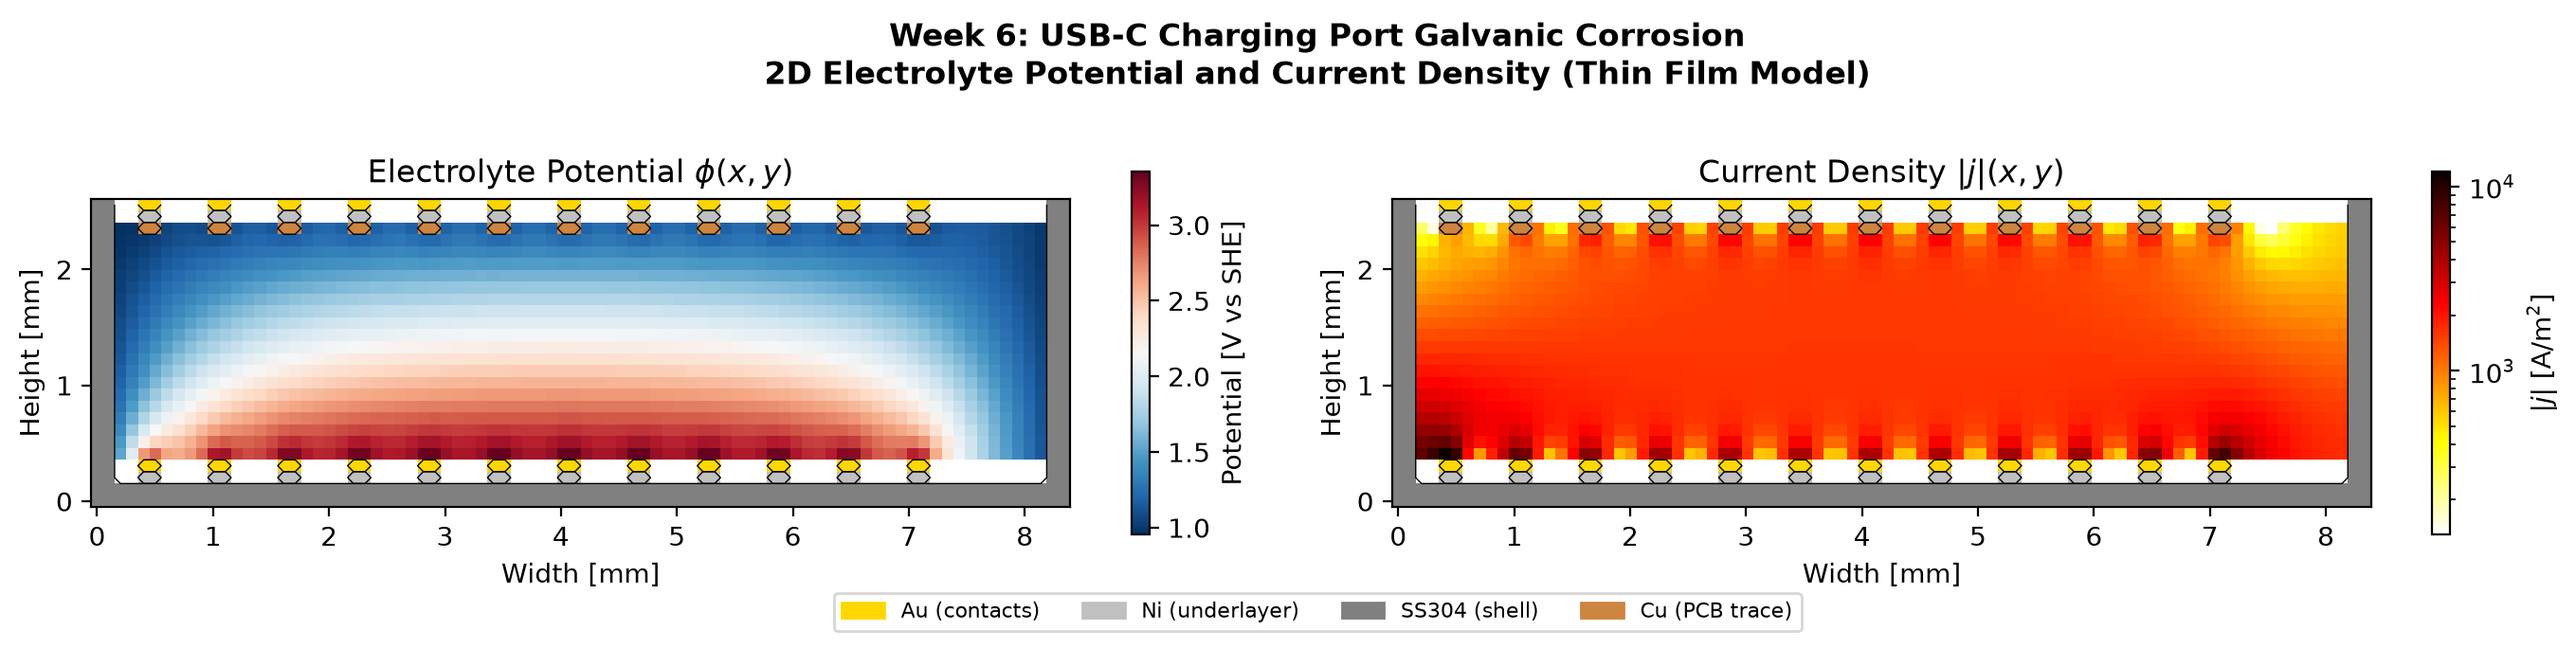
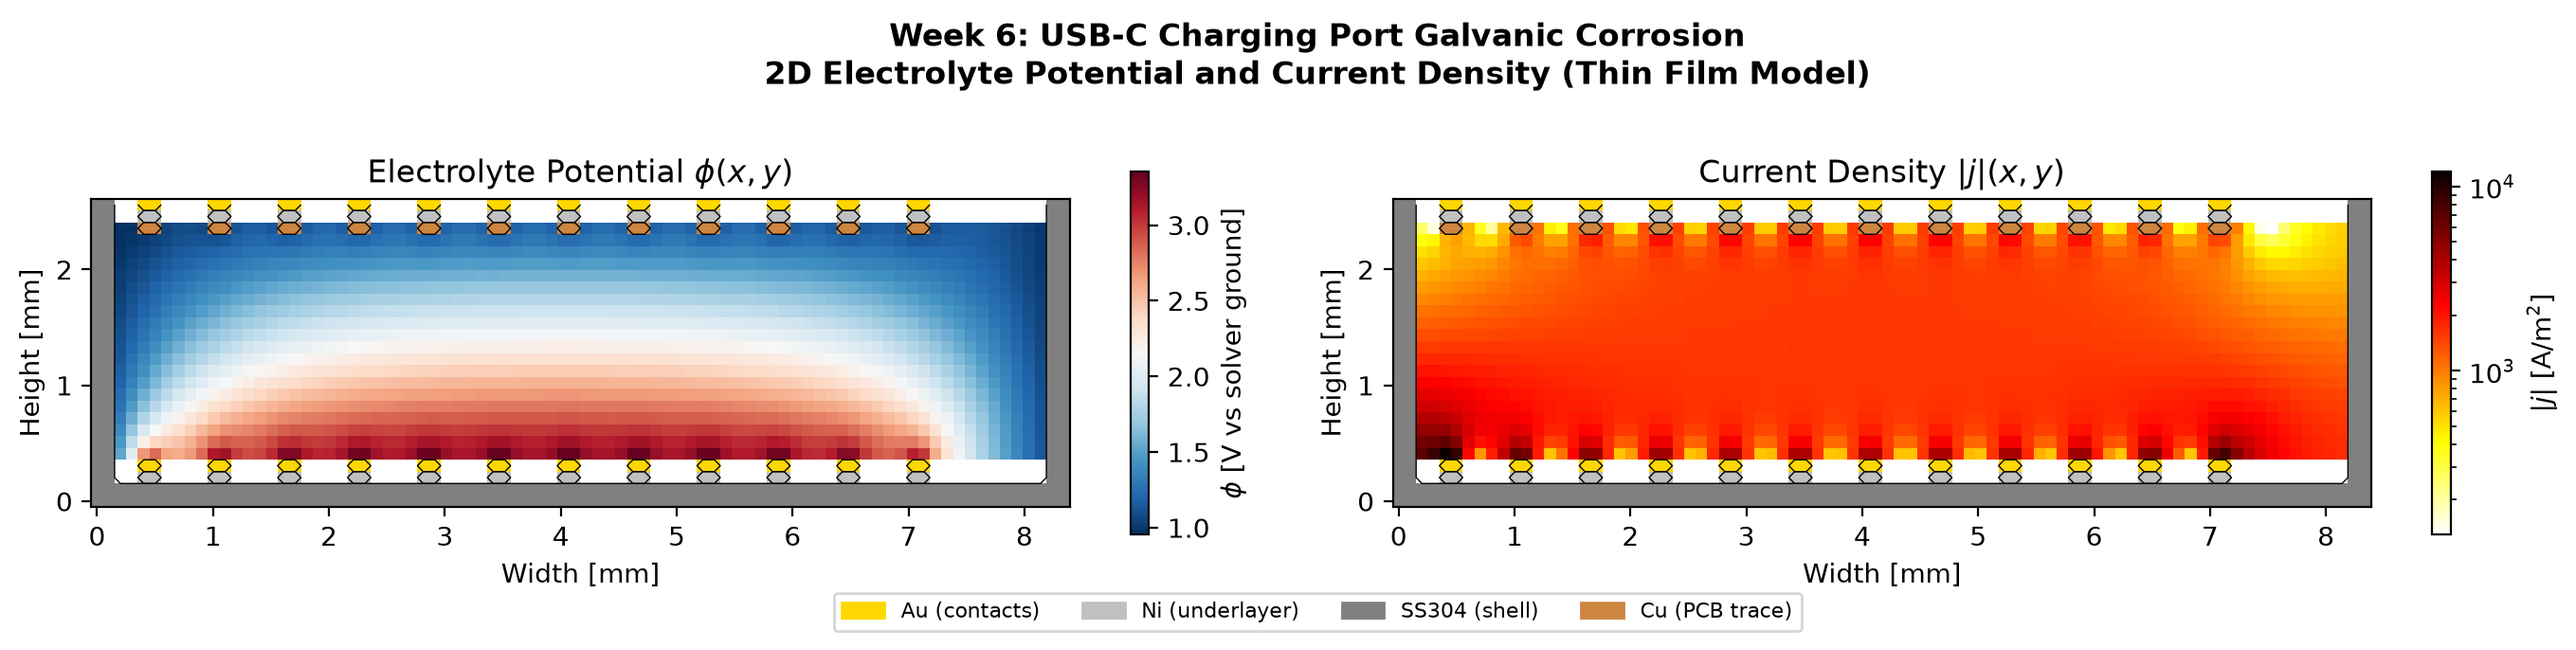
fix(viz): label the electrolyte potential in the solver frame, not vs SHE
The Laplace solve holds each metal at its own E_eq (Au at E_eq + 5 V), so
phi is measured from the solver ground: at zero bias phi = 0 V everywhere,
while the mixed potential of the same metals is +0.531 V vs SHE. The
electrode potential vs SHE at a surface is phi_metal - phi.

Colorbar: "Potential [V vs SHE]" -> "phi [V vs solver ground]".
Values unchanged: 0.96 to 3.35 V under 5 V bias.
Test: test_phi_is_not_referenced_to_she (fails on the old label).

diff --git a/docs/equations.html b/docs/equations.html
@@ -134,7 +134,7 @@ In the thin electrolyte film, assuming electroneutrality and negligible convecti
 $$
 \nabla\!\cdot\!\bigl(\kappa\,\nabla\phi\bigr) \;=\; 0
 $$
-with $\phi$ the electrolyte potential [V] and $\kappa$ the electrolyte conductivity [S/m]. For a film of thickness $\delta_e$ this reduces to a 2D problem on the port surface (8.34 mm × 2.56 mm USB-C receptacle cross section).
+with $\phi$ the electrolyte potential [V, vs solver ground, not vs SHE: each metal is held at its own $E_{\mathrm{eq},k}$, Au at $E_{\mathrm{eq}}$ + 5 V, so $\phi = 0$ at zero bias and the electrode potential vs SHE is $\phi_{\mathrm{metal},k} - \phi$] and $\kappa$ the electrolyte conductivity [S/m]. For a film of thickness $\delta_e$ this reduces to a 2D problem on the port surface (8.34 mm × 2.56 mm USB-C receptacle cross section).
 <p class="src">SOURCE: Laplace equation / current continuity for an ohmic electrolyte (standard electrochemistry, constant $\kappa$). Electrolyte: 0.5% NaCl sweat proxy, $\kappa \approx 1.5$ S/m [ASSUMED proxy].</p>
 <p>Code: <span class="code-ref">src/laplace_solver.py → solve_laplace_2d, extract_boundary_currents</span>.</p>
 </div>
@@ -230,7 +230,7 @@ $$
 </div>
 
 <footer>
-  Integrity Code Series — Week 6 · Felipe Rocha · 43 / 43 tests passing<br>
+  Integrity Code Series — Week 6 · Felipe Rocha · 44 / 44 tests passing<br>
   Browse the rendered panels in <code>assets/</code> for visual results.
 </footer>
 

diff --git a/viz/plot_potential_field.py b/viz/plot_potential_field.py
@@ -23,6 +23,11 @@ from src.config import (NX, NY, DX, DY, PORT_WIDTH, PORT_HEIGHT,
                          METALS, build_metal_zone_map, SIM_PARAMS)
 from src.laplace_solver import solve_laplace_2d
 
+# phi is the electrolyte potential in the solver frame, where each metal is held
+# at E_eq (Au at E_eq + bias). It is not an electrode potential, so not vs SHE;
+# the electrode potential at a surface is phi_metal - phi.
+PHI_LABEL = r"$\phi$ [V vs solver ground]"
+
 
 def plot_potential_field(save_path="assets/hero_potential_current.png", dpi=200):
     """Generate the hero 2D potential and current density visualization."""
@@ -60,7 +65,7 @@ def plot_potential_field(save_path="assets/hero_potential_current.png", dpi=200)
     ax1 = axes[0]
     phi_plot = np.ma.masked_where(zone_map != "electrolyte", phi)
     im1 = ax1.pcolormesh(X, Y, phi_plot, cmap="RdBu_r", shading="auto")
-    cb1 = fig.colorbar(im1, ax=ax1, label="Potential [V vs SHE]", shrink=0.85)
+    cb1 = fig.colorbar(im1, ax=ax1, label=PHI_LABEL, shrink=0.85)
 
     # Fill metal zones with the legend colors so the legend matches the plot
     fill_colors = {"Au": "gold", "Ni": "silver", "SS304": "gray", "Cu": "peru"}

diff --git a/tests/test_all.py b/tests/test_all.py
@@ -164,6 +164,19 @@ class TestLaplaceChargingBias:
         assert wet.min() >= 0.0
         assert wet.max() <= self.BIAS
 
+    def test_phi_is_not_referenced_to_she(self):
+        """With no bias every metal sits at its own E_eq, so phi is 0 V everywhere,
+        while the mixed potential of the same metals is +0.53 V vs SHE. phi is
+        therefore in the solver frame and the figure must not label it vs SHE.
+        """
+        from viz.plot_potential_field import PHI_LABEL
+
+        zone_map = build_metal_zone_map()
+        phi, _, converged, _ = solve_laplace_2d(zone_map=zone_map, charging_bias=0.0)
+        assert converged
+        assert np.abs(phi[zone_map == "electrolyte"]).max() < 1e-9
+        assert "SHE" not in PHI_LABEL
+
     def test_current_density_bounded_by_ohmic_limit(self):
         """|j| cannot exceed kappa * bias over one grid spacing."""
         zone_map = build_metal_zone_map()

diff --git a/README.md b/README.md
@@ -5,7 +5,7 @@
 [![CI](https://github.com/felipearocha/integrity-code-series-week6-smartphone-galvanic/actions/workflows/ci.yml/badge.svg)](https://github.com/felipearocha/integrity-code-series-week6-smartphone-galvanic/actions/workflows/ci.yml)
 [![License: MIT](https://img.shields.io/badge/License-MIT-green.svg)](LICENSE)
 [![Python 3.11+](https://img.shields.io/badge/python-3.11%2B-blue.svg)](https://www.python.org/downloads/)
-[![Tests: 43 passing](https://img.shields.io/badge/tests-43%20passing-brightgreen.svg)](tests)
+[![Tests: 44 passing](https://img.shields.io/badge/tests-44%20passing-brightgreen.svg)](tests)
 [![DOI](https://zenodo.org/badge/DOI/10.5281/zenodo.20172479.svg)](https://doi.org/10.5281/zenodo.20172479)
 
 ## Executive Summary
@@ -42,7 +42,7 @@ outputs of an uncalibrated model.
 
 | Output | Value |
 |---|---|
-| Electrolyte potential range (Laplace, 5 V bias) | 0.96 to 3.35 V |
+| Electrolyte potential range (Laplace, 5 V bias) | 0.96 to 3.35 V vs solver ground |
 | Peak current density in the electrolyte (Laplace, 5 V bias) | 1.20e4 A/m² |
 | Mixed potential, no bias | +0.531 V vs SHE |
 | Galvanic current, no bias | 4.00e-6 A |
@@ -95,6 +95,9 @@ electrolyte potential satisfies current continuity:
 
 where $\phi$ is the electrolyte potential [V] and $\kappa$ the electrolyte conductivity
 [S/m]. For a thin film of thickness $\delta_e$, this reduces to a 2D problem on the port surface.
+$\phi$ is not referenced to SHE: it is measured from the solver ground, in which each metal is held at its own
+$E_{\mathrm{eq},k}$ (Au at $E_{\mathrm{eq}}$ + 5 V), so at zero bias $\phi = 0$ everywhere; the electrode potential vs SHE at a
+surface is $\phi_{\mathrm{metal},k} - \phi$.
 
 ### Scale 2: Micro (Metal Interfaces) - Butler-Volmer Kinetics
 
@@ -214,7 +217,7 @@ Thin film thickness: 10-500 micrometers (depending on humidity/lint trapping).
     |   |-- multi_scale_engine.py # Orchestrator coupling all scales
     |   |-- cybersecurity.py      # STRIDE threat model, audit logging, sensor validation
     |-- tests/
-    |   |-- test_all.py            # 43 tests: Butler-Volmer, Laplace, galvanic,
+    |   |-- test_all.py            # 44 tests: Butler-Volmer, Laplace, galvanic,
     |   |                          #   inverse, temporal, cybersecurity, integration
     |-- viz/
     |   |-- plot_potential_field.py

diff --git a/CHANGELOG.md b/CHANGELOG.md
@@ -25,6 +25,7 @@ and this project adheres to [Semantic Versioning](https://semver.org/spec/v2.0.0
 - GIF labelled illustrative
 
 ### Fixed
+- Potential-field colorbar said "V vs SHE"; phi is measured from the solver ground (0 V everywhere at zero bias), now labelled "V vs solver ground"
 - Laplace boundary update: sign error caused divergence to 1e208 V with converged=True
 - Insulators apply the zero-flux condition instead of a fixed potential
 - MCMC keeps out-of-prior rejections in the chain (2000 steps, not 1890)
